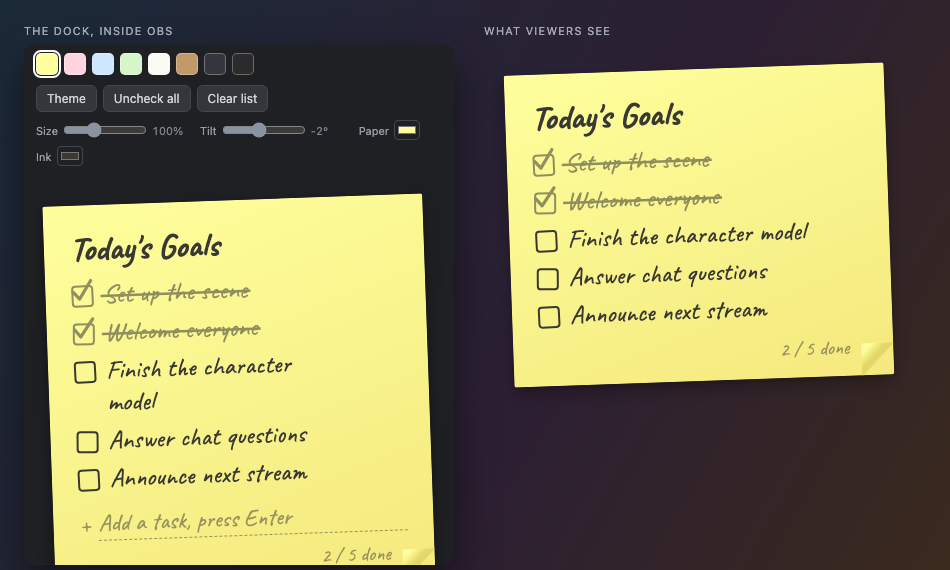
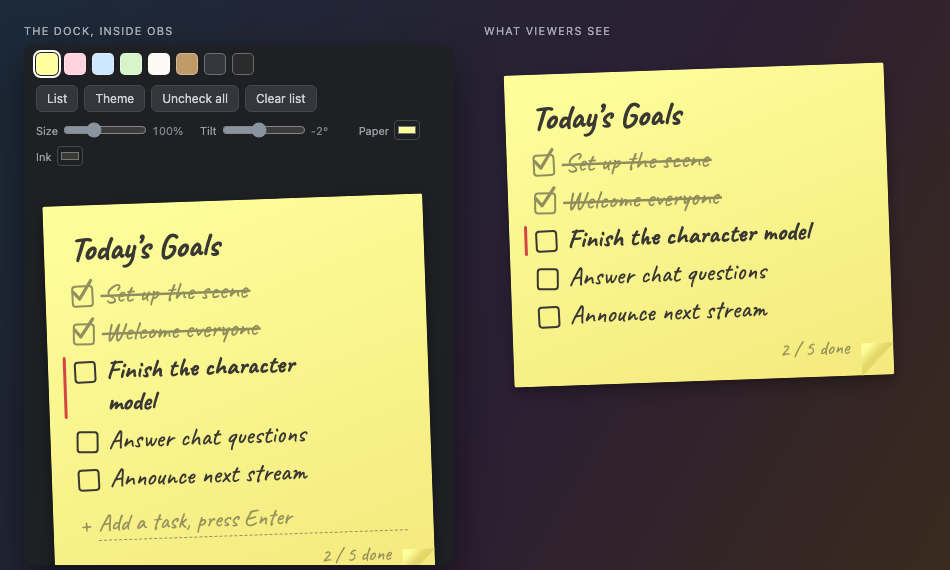
Release 0.3.0
The current item and its command layer, list backup by copy and paste, and
frame accents on any theme. Screenshots regenerated: the dock has gained a
List button and the hero now shows the current-item marker.

diff --git a/CHANGELOG.md b/CHANGELOG.md
@@ -1,6 +1,6 @@
 # Changelog
 
-## Unreleased
+## 0.3.0 — 2026-09-03
 
 ### Saving and pasting in a list
 
